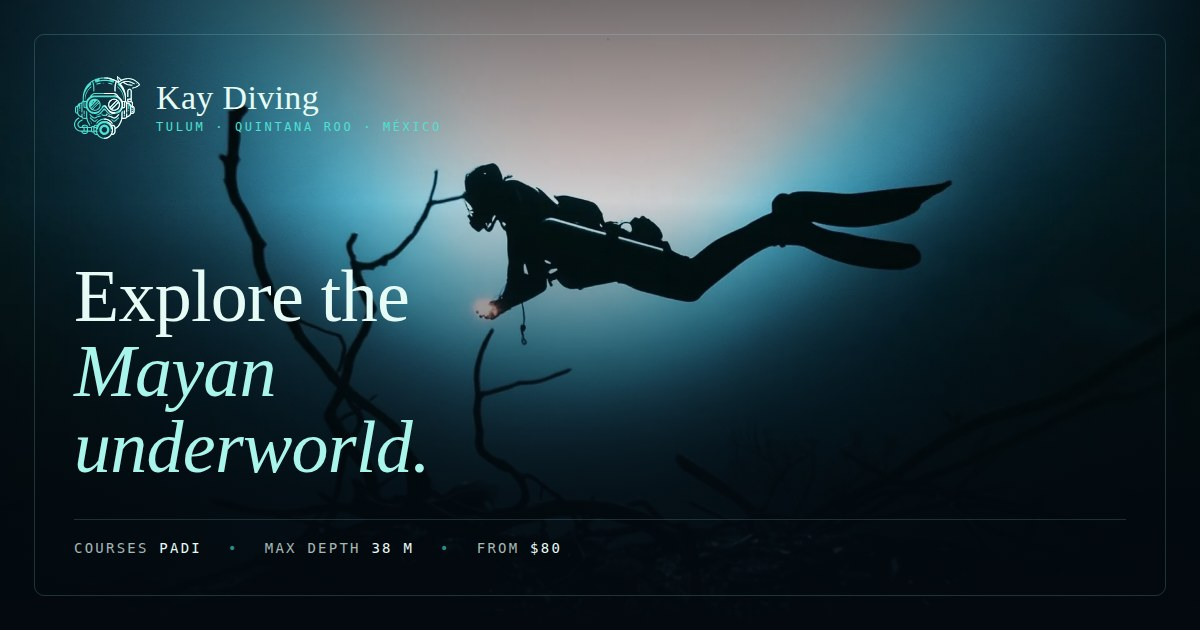
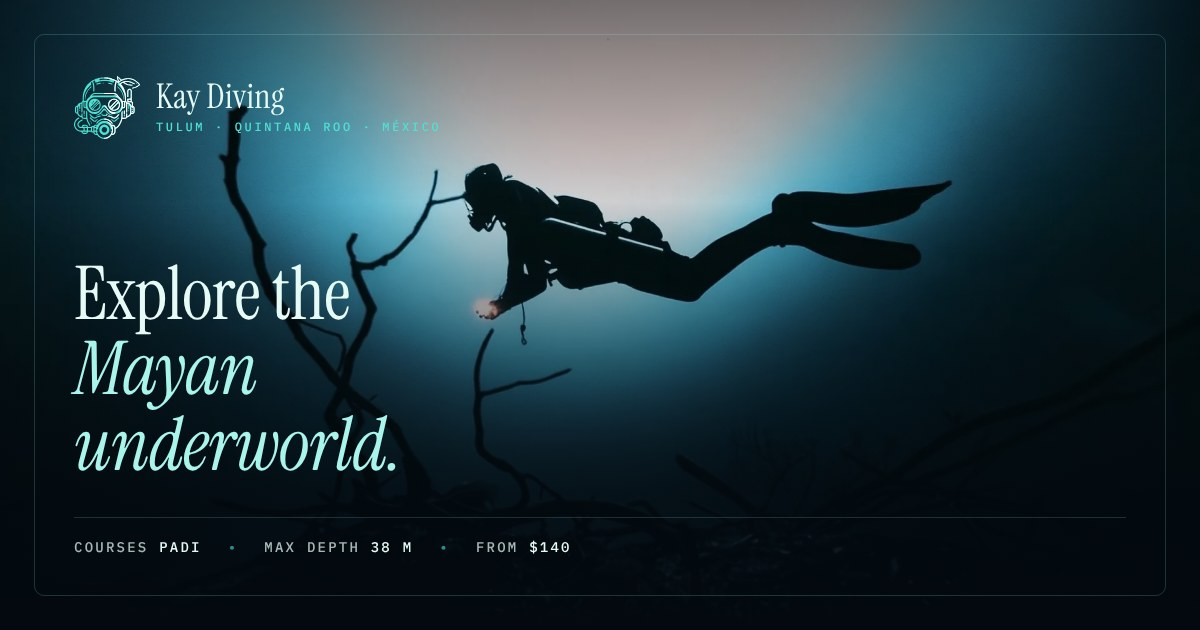
Two "from" prices on the strip, and a share card per language at last
Kay asked for $140 for diving and $125 for snorkelling rather than one
number covering both, and he is right: a single "from $125" told a diver
the snorkel price and told nobody the diving one. Both come from the
catalogue, so neither can go stale the way the $80 did.

And the Open Graph cards — the image that travels into WhatsApp — were
all three the same file, byte for byte, in English. The script that
builds one per language had not been run since the copy changed, and
nothing runs it automatically: a Spanish link previewed as "Explore the
Mayan underworld". Regenerated, and now they differ. Each also carries
the diving price, matching the meta description it travels with.

Claude-Session: https://claude.ai/code/session_01J8jphA6y8HAQD3ePUxFpce

Changed region(s): [[0.0617, 0.4222, 0.37, 0.754], [0.0617, 0.8143, 0.925, 0.8746], [0.1233, 0.1206, 0.2775, 0.2111]]

diff --git a/site/app/[locale]/page.tsx b/site/app/[locale]/page.tsx
@@ -1,7 +1,7 @@
 import { notFound } from "next/navigation";
 import { isLocale, getDictionary, pathFor, mapCopy, LIVE_LOCALES } from "@/lib/i18n";
 import { PRODUCTS, ALWAYS_INCLUDED, GALLERY, PICKUPS, SCHEDULES, SHOP,
-         CONTENT_UPDATED, FROM_USD } from "@/content/products";
+         CONTENT_UPDATED, FROM_USD, SNORKEL_USD } from "@/content/products";
 import Surface from "@/components/Surface";
 import Gauge from "@/components/Gauge";
 import Reveals from "@/components/Reveals";
@@ -194,7 +194,11 @@ export default async function Home({ params }: { params: Promise<{ locale: strin
               <span>{t.hero.water} <b>{SHOP.waterTempC}°C</b></span><i className="dot" />
               <span>{t.hero.viz} <b>{SHOP.visibilityM}</b></span><i className="dot" />
               <span>{t.hero.agencyLabel} <b>{SHOP.agency}</b></span><i className="dot" />
-              <span>{t.hero.from} <b>${cheapest}</b></span>
+              {/* Two figures, because they are two different things: the
+                  cheapest dive and the snorkel tour. One number covering both
+                  told whoever read it the wrong one. */}
+              <span>{t.hero.fromDive} <b>${FROM_USD}</b></span><i className="dot" />
+              <span>{t.hero.fromSnorkel} <b>${SNORKEL_USD}</b></span>
             </p>
           </div>
         </section>

diff --git a/site/lib/i18n.ts b/site/lib/i18n.ts
@@ -87,7 +87,7 @@ export interface Dictionary {
   nav: Record<"about" | "products" | "included" | "logistics" | "gallery" | "faq"
             | "cenotes" | "visit" | "ruins" | "reserve" | "reserveLong" | "menu" | "language", string>;
   hero: Record<"kicker" | "l1" | "l2" | "lede" | "cta2" | "alt"
-             | "water" | "viz" | "from" | "agency" | "agencyLabel", string>;
+             | "water" | "viz" | "fromDive" | "fromSnorkel" | "agency" | "agencyLabel", string>;
   gauge: Record<"surface" | "cavern" | "deep", string>;
   about: Record<"tag" | "h2" | "p1" | "p2" | "questionTag" | "question"
               | "plateAlt" | "plateNote", string>;

diff --git a/site/content/products.ts b/site/content/products.ts
@@ -132,6 +132,13 @@ export const PUBLISHED_LOCALES = data.publishedLocales as string[];
  */
 export const EXPERIENCE_PAGES = data.experiencePages as string[];
 
+/** The snorkel tour's price, beside FROM_USD: Kay quotes two "from" figures
+    because they are two different things, and one number for both was always
+    going to be wrong for one of them. */
+export const SNORKEL_USD = Math.min(
+  ...PRODUCTS.filter((p) => p.kind === "snorkel").flatMap((p) => p.options.map((o) => o.price)),
+);
+
 export const SHOP = {
   ...data.shop,
   /**
